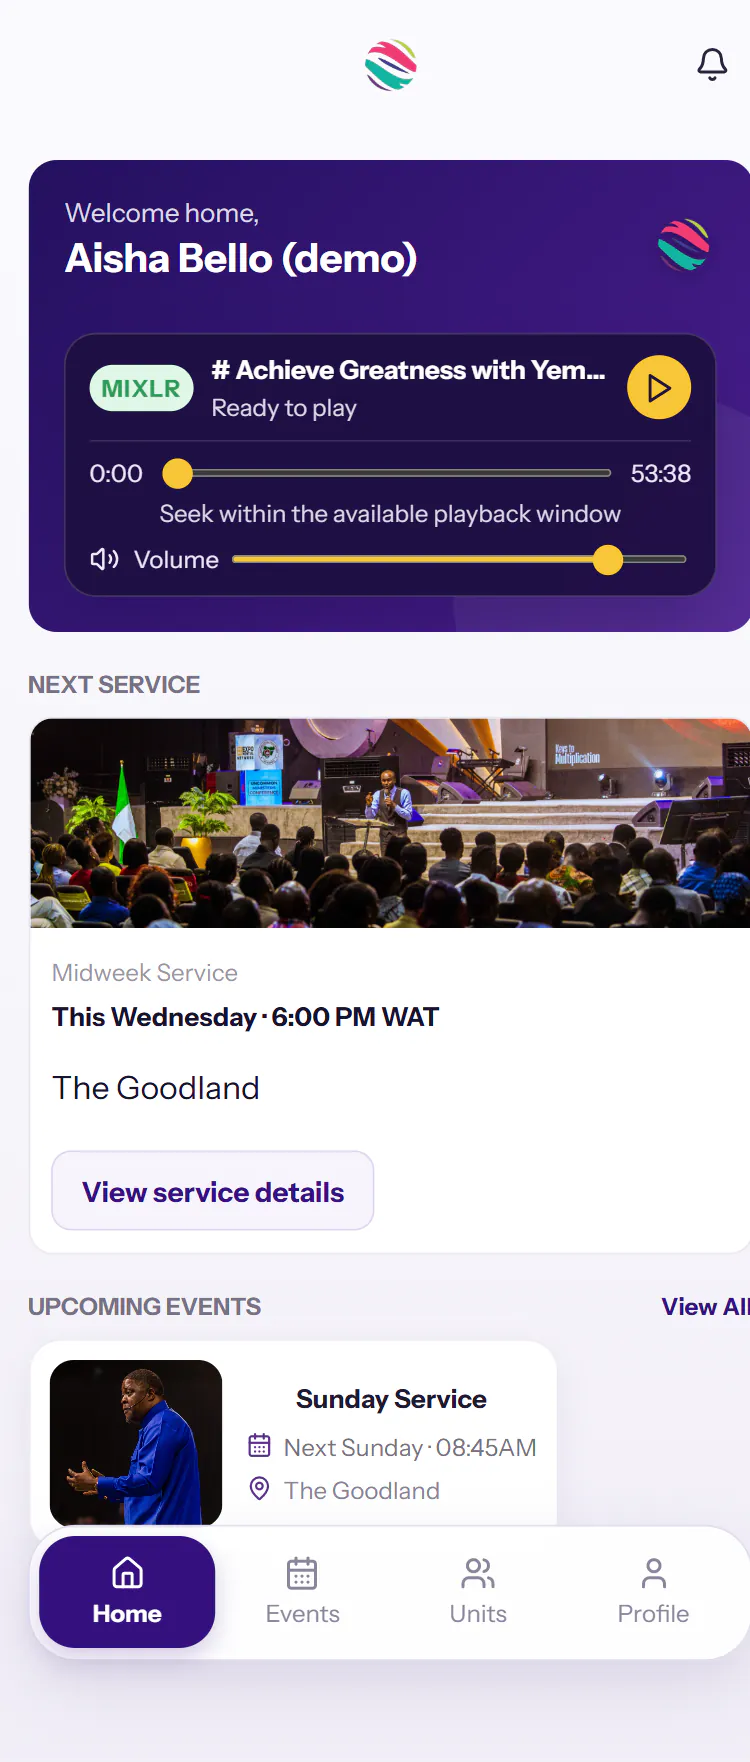
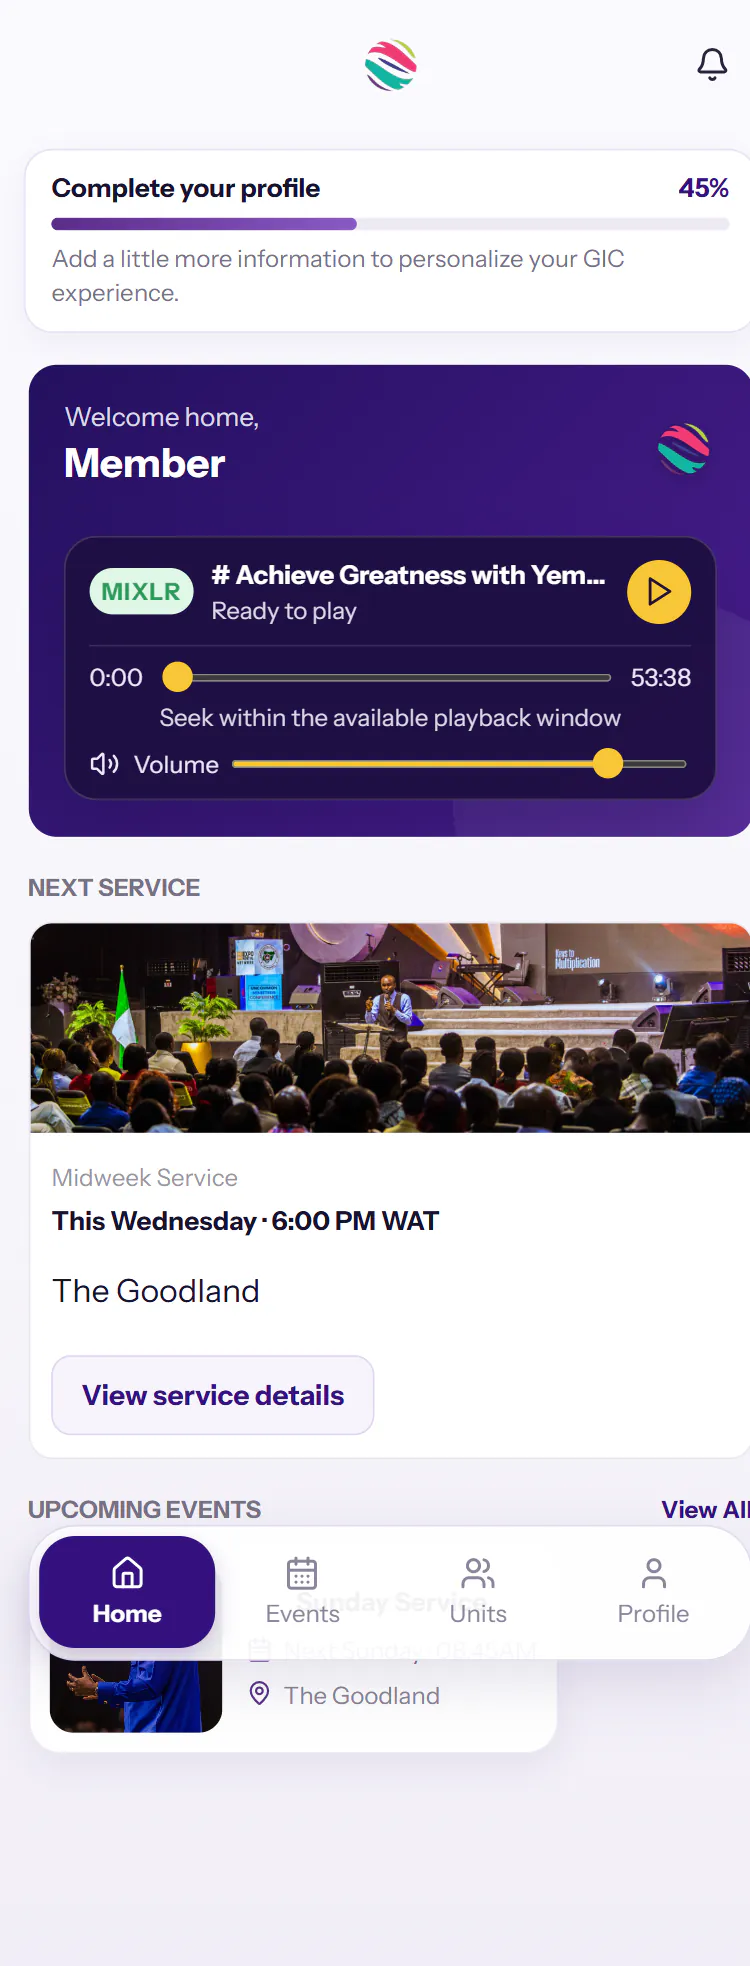
Swap GIC admin screenshot to Units, recapture after removing demo data
The second admin screenshot is now the Units page (/ministries) rather than the
member table, so the case study reads as 'admin + member mobile web app'.

All demo data created for the first capture has been removed from the live
deployment: 5 demo members, 2 events, 5 draft campaigns and 2 segments. The
screenshots were re-captured afterwards, so nothing in the portfolio references
data that no longer exists.

- hero:  message composer, audience set to a real segment
- full:  Units - 14 units and fellowships with descriptions and counts
- mobile: member app home - sermon player, next service, upcoming events
- Case study copy updated for the two surfaces; new fact for units/fellowships.
- docs/gic-analysis.md records the cleanup and the soft-delete behaviour.

diff --git a/src/data/projects.ts b/src/data/projects.ts
@@ -91,19 +91,19 @@ export const projects: Project[] = [
         src: '/projects/gic/hero.webp',
         width: 1440,
         height: 900,
-        alt: 'Kingdom Comms message composer: a reminder titled “Mid-week service tonight”, audience set to the Young Adults segment, with a live preview of the push notification a member would receive',
+        alt: 'Kingdom Comms message composer: a reminder titled “Mid-week service tonight”, audience set to the Male Members segment, with a live preview of the push notification a member would receive',
       },
       full: {
         src: '/projects/gic/full.webp',
         width: 1200,
-        height: 667,
-        alt: 'Kingdom Comms member records: twelve members with centre, unit, fellowship and segment memberships, filtered by status, unit, fellowship, segment, age group and relationship status',
+        height: 881,
+        alt: 'Kingdom Comms Units: fourteen church units and fellowships — Protocol, Security, Pastors, Media Ministry, Choir, Youth Fellowship — each with its description, member count and status',
       },
       mobile: {
         src: '/projects/gic/mobile.webp',
         width: 750,
-        height: 1762,
-        alt: 'The GIC member app on a phone: welcome banner, the latest Mixlr sermon recording, the next service and upcoming events',
+        height: 1966,
+        alt: 'The GIC member app on a phone: the latest Mixlr sermon recording with a player, the next service at The Goodland, upcoming events and a profile-completion prompt',
       },
     },
     overview:
@@ -112,8 +112,9 @@ export const projects: Project[] = [
       'The obvious version of this is a WhatsApp broadcast list, and it fails immediately: no targeting, no scheduling, no delivery record, no way to attach a flyer, and every message is read on a phone that may be out of data. The hard version is a system that knows who each member is — which branch they attend, their age group, their relationship status, which unit they serve in, which fellowship they belong to — and can therefore send one message to the exact people who need it. That meant a real data model, not a contact list: members, ministries, cells, segments, age groups, events, registrations and pickups all as first-class rows. It also meant a delivery channel that a church can afford indefinitely, and an onboarding path short enough that a congregation with mixed smartphones will actually complete it.',
     built: [
       'Three services over one API — a member PWA, the Kingdom Comms admin panel, and a Hono/Postgres backend — deployed separately on Render so a bad admin deploy cannot take the member app down.',
+      'The member app: a PWA whose home screen carries the week’s sermon recording, the next service and upcoming events, with Units where members browse and apply to serve, announcements, event registration and a profile the admin panel can fill in.',
       'A targeting engine with eight filters: gender, age group, relationship status, centre, membership status, joined-within-months, ministry and cell. Segments can be automatic (rule-based) or hand-picked, and the composer shows a live audience estimate before anything is sent.',
-      'An event manager with custom registration forms, capacity limits, waitlists, issued reference codes, and per-branch bus-pickup points with capacities and departure times.',
+      'An admin panel over the same data — members, attendance, units and fellowships, segments, events with registration forms and bus-pickup logistics, campaigns, and an activity log.',
       'Scheduled and immediate campaigns with five categories and a tap destination, plus a “preview as member” panel that renders the notification exactly as the phone will show it.',
       'Attendance check-ins: an admin schedules a pulse for a service occurrence — “are you in church?” or “how was it?” — and members answer in person, online or not attending from the app.',
       'A Mixlr integration so the week’s sermon recording plays inside the member app, and a service worker that caches the app shell so the app still opens without a network. The Mixlr feed is also an announcement channel: it posts the new recording to every member automatically, with a deep link into the recording.',
@@ -123,13 +124,14 @@ export const projects: Project[] = [
       { label: 'Surfaces', value: 'Member PWA · Admin panel · API' },
       { label: 'Targeting', value: '8 filters · automatic + manual segments' },
       { label: 'Branches served', value: '5 — Lagos (×4) & Abuja' },
+      { label: 'Units & fellowships', value: '14 — with member counts and leaders' },
       { label: 'Data model', value: 'Postgres · 26 migrations · tenant-scoped' },
       { label: 'Delivery', value: 'Firebase Cloud Messaging — no per-message cost' },
       { label: 'Live broadcasts', value: '21 sent · 0 delivery failures' },
       { label: 'Repository', value: '3 apps · 211 commits' },
     ],
     resultsNote:
-      'The Mixlr announcement automation has been running in production since 4 October 2026: 21 broadcasts sent, every one with zero delivery failures. Everything else on this page describes what the system can do rather than what it has done — the live member table was still carrying seeded demo records at recon time, and the church has not onboarded the congregation yet, so no adoption or reach figures are claimed. The SMS saving is the arithmetic the platform was built to solve: at ₦5 a message, a broadcast to a few thousand members costs more than most churches earn from a mid-week service.',
+      'The Mixlr announcement automation has been running in production since 4 October 2026: 21 broadcasts sent, every one with zero delivery failures. Everything else on this page describes what the system can do rather than what it has done — the church has not onboarded the congregation yet, so no adoption or reach figures are claimed. The SMS saving is the arithmetic the platform was built to solve: at ₦5 a message, a broadcast to a few thousand members costs more than most churches earn from a mid-week service.',
   },
   {
     slug: 'zanori',

diff --git a/docs/gic-analysis.md b/docs/gic-analysis.md
@@ -142,27 +142,45 @@ Not defects in the code as written — observations from the live deployment:
 3. **Member deletion lives in the wrong module.** The admin "Delete member" button calls
    `DELETE /api/admin/ministry-applications/members/:id`. It works and cascades correctly, but
    a member-deletion route filed under ministry applications will be missed by the next reader.
-4. **Three empty member records** (`dev-ozxrc6-dv43`, `dev-mn88b8-rpgl`, `dev-0y1n8c-k1wa`) —
-   device-auth shells with no name, phone or group memberships. They are the only rows that look
-   unfinished in the admin table and are safe to remove.
+4. **Deactivating a segment does not remove it from the Segments page.** `DELETE
+   /api/admin/groups/segments/:id` is a soft delete — it sets `active = false`. The audience
+   dropdown (`GET /api/admin/groups/audiences`) correctly filters on `active`, so a deactivated
+   segment can no longer be targeted, but `GET /api/admin/groups` does not filter, so the
+   Segments admin page still lists it. There is no hard delete anywhere in the API.
+5. **Three empty member records** (`dev-ozxrc6-dv43`, `dev-mn88b8-rpgl`, `dev-0y1n8c-k1wa`) —
+   device-auth shells with no name, phone or group memberships. They predate this work and are
+   the only rows in the admin table that look unfinished.
+6. **The floating Mixlr player overlaps page content.** On the member Units screen the
+   persistent player covers the "I want to serve!" call-to-action.
 
-## 6. Demo data seeded for the capture
+## 6. Demo data — created for the first capture, then removed
 
-The live database was empty of realistic content at recon time, so the following clearly-labelled
-demo records were created through the admin API so the screenshots show the system working:
+The first pass of screenshots needed realistic content, so the following was created through the
+admin API: five demo members (names suffixed `(demo)`, phones on the reserved `0800000000X`
+range), two segments (`Young Adults` automatic, `Service Volunteers` manual), two events with
+registration forms and bus-pickup logistics, and five draft campaigns.
 
-- 5 demo members — `Bola Adeyemi (demo)`, `Tunde Okafor (demo)`, `Chiamaka Nwosu (demo)`,
-  `Emeka Obi (demo)`, `Aisha Bello (demo)` — with centres, age groups, birthdays, join dates and
-  ministry/fellowship memberships.
-- 2 segments — `Young Adults` (automatic, age rule) and `Service Volunteers` (manual).
-- 2 events — `Mid-Week Prayer Service` (bus transport, Protocol unit) and
-  `Young Adults Conference 2026` (4-field registration form, capacity 150, waitlist, 3 bus
-  pickup points, 3 confirmed registrations with reference codes).
-- 5 draft campaigns targeting everyone, a ministry, a cell and a segment.
+**All of it has since been deleted**, at the client's request. The live deployment is back to
+its pre-recon state: 6 members (3 blank device shells, plus `Oghonetega Jesse Jave`, `Adeniyi`
+and `Ayomide Adegunle`), the 2 original `Test Event` records, the 21 Mixlr broadcasts and the
+`Test Event` notification, and the 4 system segments.
 
-No notification was ever sent by me — the five seeded campaigns were left as drafts. The seeded
-names carry a `(demo)` suffix and the phone numbers use the reserved `0800000000X` test range.
-The 21 broadcasts in §7 are the church's own, sent by the Mixlr automation before this recon.
+Two rows survive as tombstones: `Young Adults` and `Service Volunteers` are soft-deleted
+(`active = false`) because the API offers no hard delete — see finding 4 above. They no longer
+appear as audience options and cannot be targeted.
+
+The shipped screenshots were **re-captured after the cleanup**, so nothing in the portfolio
+references data that no longer exists:
+
+| Image | Surface | Captured from |
+|-------|---------|---------------|
+| `hero.webp` | Admin — message composer, audience set to a segment, live member preview | `gic-admin-static.onrender.com/messages/new` |
+| `full.webp` | Admin — Units: 14 units and fellowships with descriptions and counts | `gic-admin-static.onrender.com/ministries` |
+| `mobile.webp` | Member app — sermon player, next service, upcoming events | `gic-comms.onrender.com/home` |
+
+The member-app shot uses a device account created for the capture and deleted immediately
+afterwards; it shows the app's own default greeting ("Welcome home, Member") and the real centre
+the member selected, so no personal data appears in the image.
 
 ## 7. What the portfolio claims, and what backs it
 
@@ -178,8 +196,8 @@ The 21 broadcasts in §7 are the church's own, sent by the Mixlr automation befo
 | Written audit | `AUDIT.md` in the repository |
 | 21 broadcasts sent, 0 delivery failures | `/api/admin/notifications` — 21 `SENT` rows dated 4–20 Oct 2026, all `createdBy: system:mixlr`, every one `sentCount` = `recipientCount` and `failedCount` = 0 |
 
-**Not claimed:** members reached, or any adoption metric. The live member table was still carrying
-seeded demo records at recon time and the church has not onboarded the congregation, so the case
-study says exactly that instead of implying a congregation is on the platform. The one real
-production signal is the Mixlr announcement automation, which has posted the week's service
-recording to every registered device since 4 October 2026 without a delivery failure.
+**Not claimed:** members reached, or any adoption metric. The church has not onboarded the
+congregation, so the case study says exactly that instead of implying a congregation is on the
+platform. The one real production signal is the Mixlr announcement automation, which has posted
+the week's service recording to every registered device since 4 October 2026 without a delivery
+failure.

diff --git a/README.md b/README.md
@@ -166,9 +166,8 @@ After deploying, replace the placeholder origin in `src/data/site.ts`, `index.ht
   explicitly unpaid ("FOR THE LOVE OF THE GAME") so range reads as range, not as a service menu.
 - **No invented metrics.** Case-study "results" only contain facts observable from the live
   sites (product counts, locations, prices, published claims), and each page says where those
-  numbers come from. Kingdom Comms is the test case for that rule: the live deployment was still
-  carrying seeded demo records at recon time, so the case study says so rather than implying a
-  congregation has been onboarded.
+  numbers come from. Kingdom Comms is the test case for that rule: the church has not onboarded
+  the congregation yet, so the case study says so rather than implying a congregation is live.
 - **The bird is the logo.** The old site's artwork is reused deliberately: the header mark is a
   crop of the original raven portrait, and the favicon is the original raven icon.
 - **Terminal over Konami.** A `~` terminal fits a developer portfolio better than a cheat code,
